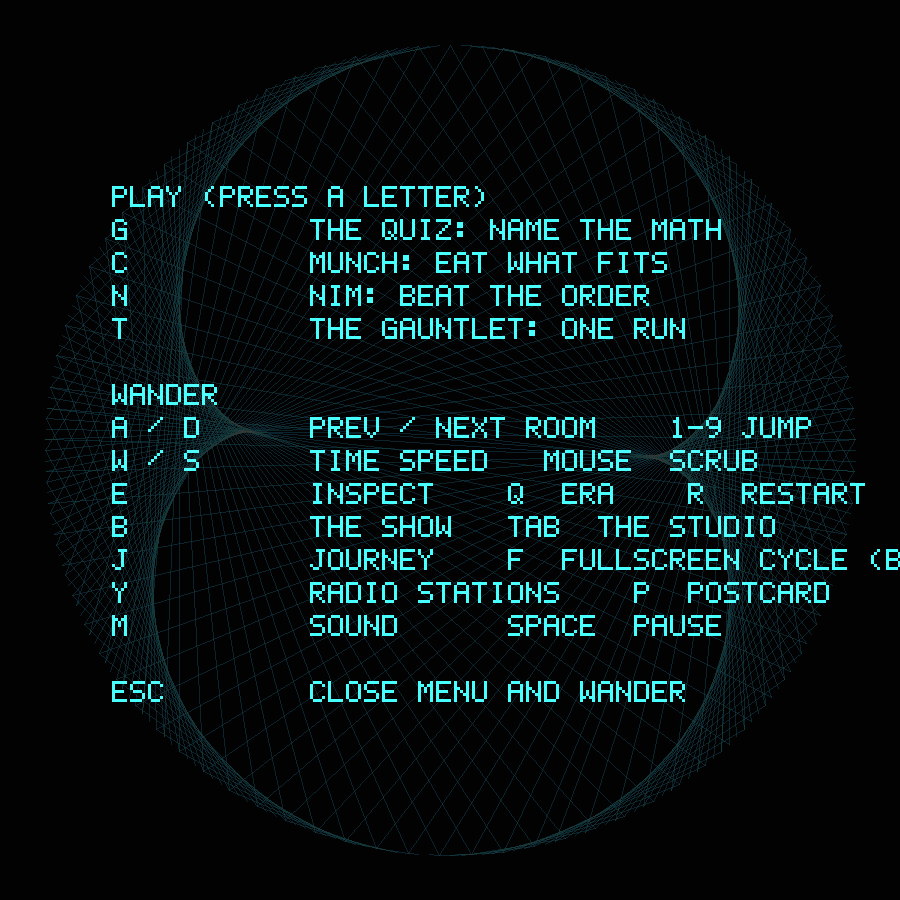
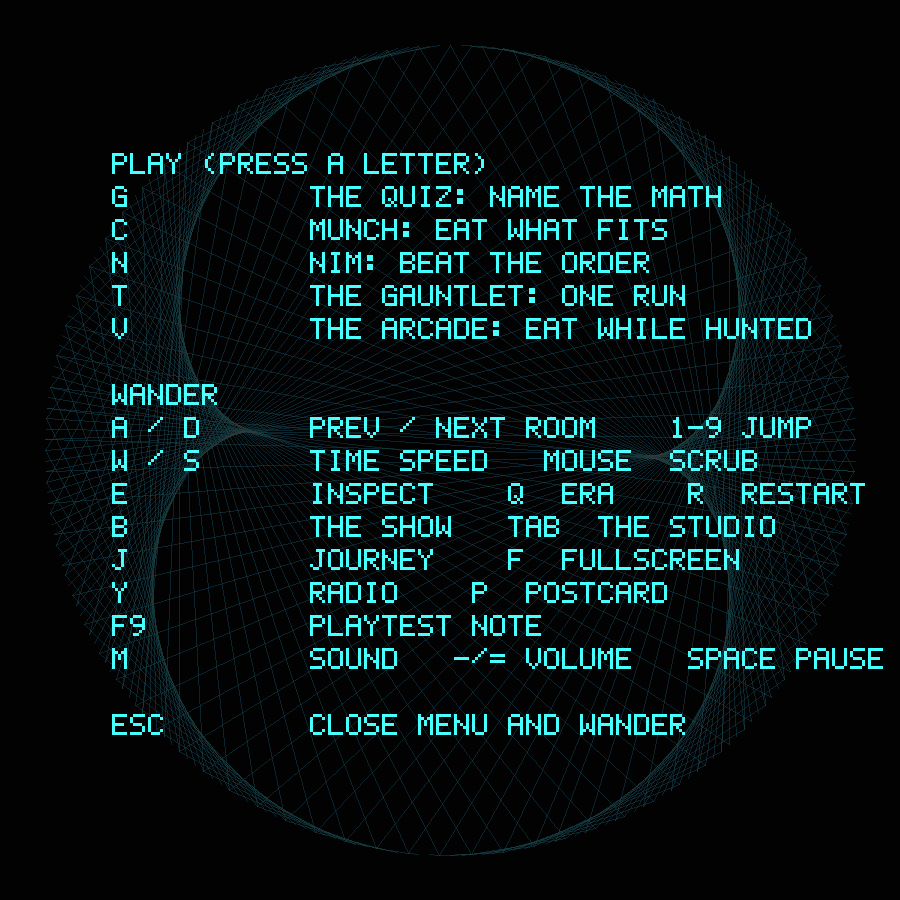
Keep the front page for discovery
Show only the real menu and one representative room. Remove extra screenshots and use the app's shared dismissible overlay in screenshot generation so the public doorway stays current without explaining the collection before play.

diff --git a/faces/app/examples/screens.rs b/faces/app/examples/screens.rs
@@ -11,6 +11,9 @@ use numinous_core::{Raster, Surface, all_rooms, draw_text};
 
 #[path = "../src/hud.rs"]
 mod hud;
+#[allow(dead_code)]
+#[path = "../src/overlays.rs"]
+mod overlays;
 
 fn save(raster: &Raster, path: &str) {
     let (w, h) = (raster.width(), raster.height());
@@ -44,38 +47,7 @@ fn main() {
         let room = room_by_id(&rooms, "times-tables");
         let mut raster = Raster::with_accent(width, height, room.meta().accent);
         room.render(&mut raster, 0.12);
-        raster.dim(22);
-        let menu_scale = (width as i32 / 300).clamp(2, 4);
-        let lines = [
-            "PLAY (PRESS A LETTER)",
-            "G          THE QUIZ: NAME THE MATH",
-            "C          MUNCH: EAT WHAT FITS",
-            "N          NIM: BEAT THE ORDER",
-            "T          THE GAUNTLET: ONE RUN",
-            "",
-            "WANDER",
-            "A / D      PREV / NEXT ROOM    1-9 JUMP",
-            "W / S      TIME SPEED   MOUSE  SCRUB",
-            "E          INSPECT    Q  ERA    R  RESTART",
-            "B          THE SHOW   TAB  THE STUDIO",
-            "J          JOURNEY    F  FULLSCREEN CYCLE (BORDERLESS/EXCL)",
-            "Y          RADIO STATIONS    P  POSTCARD",
-            "M          SOUND      SPACE  PAUSE",
-            "",
-            "ESC        CLOSE MENU AND WANDER",
-        ];
-        let line_height = 11 * menu_scale;
-        let top = (height as i32 / 2) - (lines.len() as i32 * line_height) / 2;
-        for (i, line) in lines.iter().enumerate() {
-            draw_text(
-                &mut raster,
-                line,
-                width as i32 / 8,
-                top + i as i32 * line_height,
-                menu_scale,
-                '#',
-            );
-        }
+        overlays::draw_help_overlay(&mut raster, width, height);
         save(&raster, "renders/qa3/app-1-launch-help.png");
     }
 

diff --git a/README.md b/README.md
@@ -19,20 +19,10 @@ If you already think math is cool, this is the thing you'll send to five friends
 
 ## A look
 
-![The Golden Angle room, inspected: the 137.5-degree turn a sunflower uses so its seeds never overlap](assets/screens/golden-angle.png)
-
-*Real frames from the app. Above: the Golden Angle room, inspected, the 137.5-degree turn a sunflower uses so its seeds never waste space, and why. Every room is a live, glowing, sonified instrument.*
-
 | | |
 |---|---|
-| ![Langton's Ant building its highway](assets/screens/langtons-ant.png) | ![The Studio: type math, watch and hear it live](assets/screens/studio.png) |
-| **Langton's Ant** builds a highway out of two rules. | **The Studio**: type math, watch and hear it live. |
-
-![Cult of Pi: exact digits aging through a green computational field](assets/screens/cult-of-pi.png)
-
-*Cult of Pi treats mathematics and code as the art material. Exact digits enter
-a finite green channel, age into dust, and change only where the channel or the
-player interferes. Pi itself does not degrade.*
+| ![The Numinous menu](assets/screens/menu.png) | ![The Golden Angle room](assets/screens/golden-angle.png) |
+| **Enter.** Choose how to play, or close the menu and wander. | **One room.** The rest are better discovered inside Numinous. |
 
 ## Start playing
 

diff --git a/CHANGELOG.md b/CHANGELOG.md
@@ -25,6 +25,7 @@ project uses version-gated milestones (see ROADMAP.md), not dates.
 - A deterministic pre-commit gate (`scripts/hooks/pre-commit`, wired once per clone with `git config core.hooksPath scripts/hooks`, documented in `docs/ENGINEERING.md`). It blocks any commit that would fail the fast gate: the house-style guard on every commit, and the cargo gate (fmt, clippy `-D warnings`, the full test suite) only when the commit touches Rust, `Cargo.*`, or a shader, so docs-only commits stay fast. Coverage and the locked build remain the release gate (`scripts/verify.sh`). A wired gate that blocks a bad commit beats any reminder to run the checks.
 
 ### Fixed
+- The public README now shows only the current dismissible menu and one representative room. Additional room and Studio screenshots, including the Cult of Pi frame, are removed so the front page invites discovery instead of summarizing the collection or broadcasting its surprises. The screenshot generator now calls the app's actual help overlay rather than maintaining a second, stale menu layout.
 - The roadmap's release-state summary no longer lists the first public CI run as open after that run passed every required job. Independent macOS and Linux app execution, stranger testing, and accessibility work remain open without understating the public automation already in place.
 - Contract-uniformity fixes from a round-3 audit that swept every room, sim, and game for a case where one breaks an invariant its siblings honor. The sim `lever_value` guard now rejects a non-finite lever (`f64::clamp` passes NaN through), so five sims (wing, carburetor, black hole, supernova, big bang) can no longer print a "NaN"/"inf" readout, reachable via `sim wing --set angle-of-attack=nan`; tribbles was the sibling that proved it avoidable. A new shared `Surface::draw_bounds()` clamps a hostile surface's dimensions to the 4096 cap in one place, and seven rooms (cellular automata, the pour, voronoi, langton's ant, logistic map, buffon's needle, zeno) and two sims (wing, carburetor) that looped or allocated over raw dimensions now route through it, matching the ten rooms that already did; cellular automata's raw `vec![false; width]` was an outright allocation-overflow panic on a hostile surface (the same class as the barnsley fix). These hostile-surface cases are only reachable through a custom `Surface`, since `Canvas`/`Raster` already clamp, and the clamp is a no-op for every real surface, so no visible output changes. Also `party::new(0)` no longer underflows in debug. A cross-room contract sweep otherwise found the non-finite, finite-sound, determinism, and seed-0 invariants holding uniformly.
 - Fourier Epicycles no longer recomputes its constant Fourier series (with a heap allocation per sample) inside the hot render loop, a performance cliff a round-3 audit measured at about 23 ms per frame even at 1080p (over the 60fps budget just idling) and 360 to 490 ms on a drag. The star's decomposition does not depend on the phase, the seed, or the surface, so it is now computed once and reused across every frame; the render output is byte-identical (determinism tests unchanged). Other measured CPU cliffs at maximized-window sizes (the Mandelbrot/Julia CPU fallback, Voronoi, Arecibo, and the lack of a live-render resolution cap below 4096) are recorded as tracked performance follow-ups, since they involve a sharpness-versus-framerate design choice.